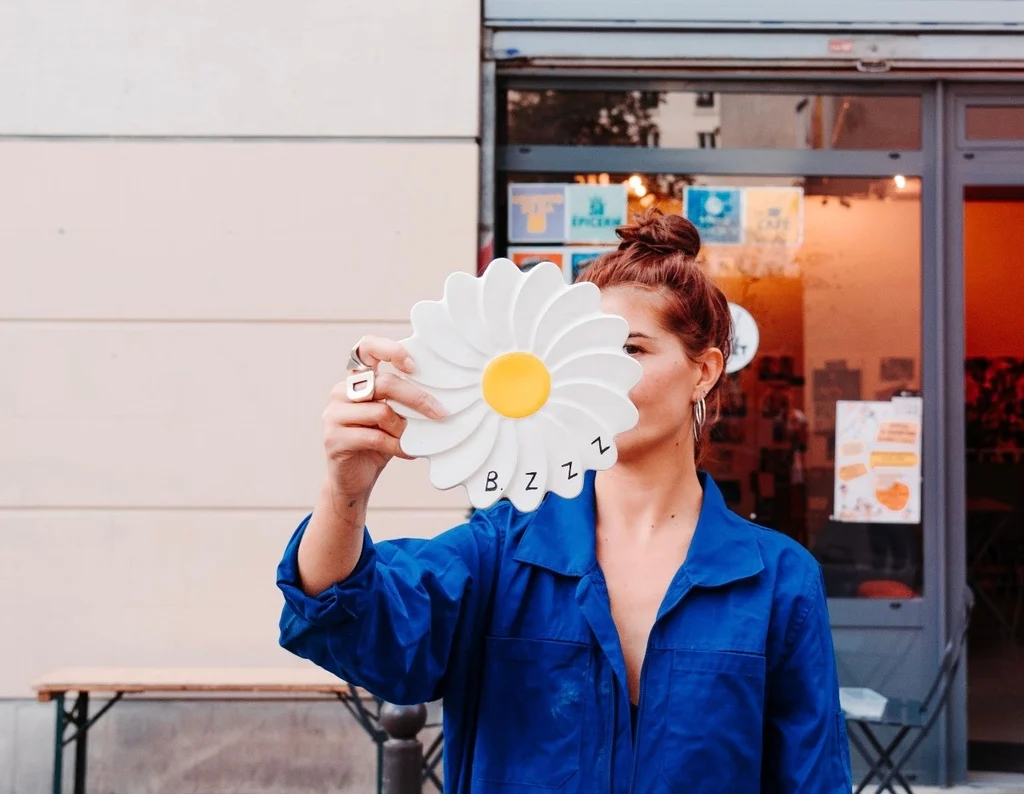
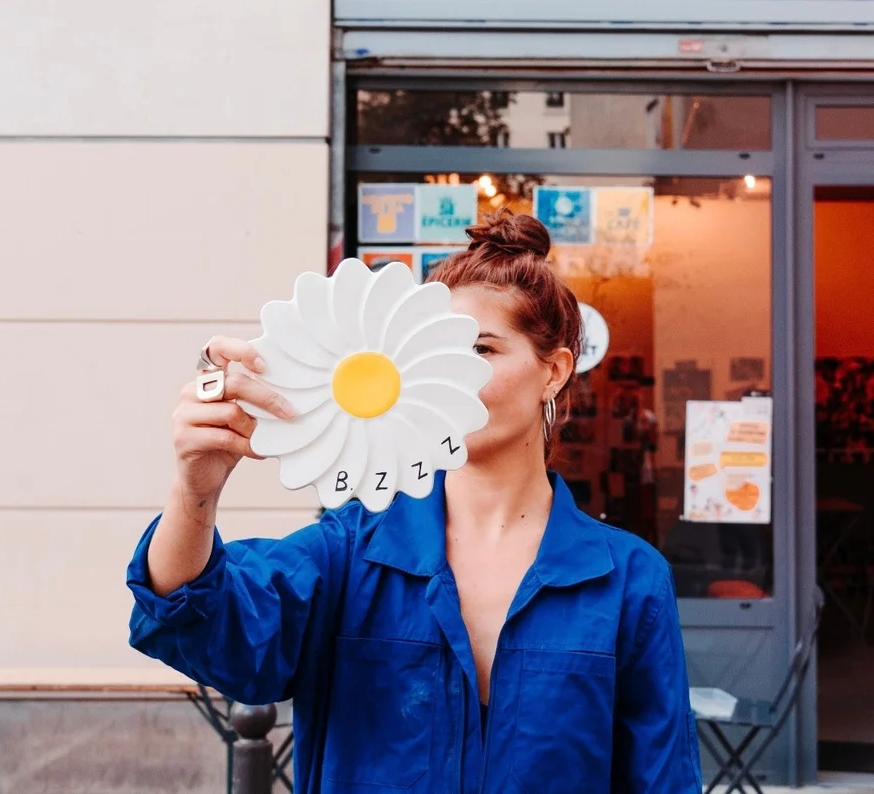
Refine gallery side gradients and crop artist portrait

diff --git a/src/styles/gallery.css b/src/styles/gallery.css
@@ -28,29 +28,30 @@
   position: relative;
   isolation: isolate;
   overflow: hidden;
-  background: var(--paper);
+  background: transparent;
   grid-template-rows: minmax(0, 1fr);
   grid-template-columns: minmax(0, 1fr);
 }
-/* La même photo forme un voile décoratif ; l’original reste net et entier. */
+/* Fondu latéral uniquement : hauteur uniforme, photo intacte. */
 .gallery-slide::before {
   content: '';
   position: absolute;
   inset: 0;
   z-index: -1;
-  background-image: var(--gallery-image);
-  background-size: cover;
-  background-position: center;
-  filter: blur(32px);
-  opacity: 0.16;
-  /* Le halo atteint la transparence avant les bords : aucune découpe carrée. */
-  -webkit-mask-image: radial-gradient(
-    ellipse closest-side,
-    #000 20%,
+  pointer-events: none;
+  background: linear-gradient(
+    to right,
+    transparent 0%,
+    rgb(55 53 49 / 0.5%) 3%,
+    rgb(55 53 49 / 2%) 7%,
+    rgb(55 53 49 / 3.5%) 12%,
+    rgb(55 53 49 / 4%) 18%,
+    rgb(55 53 49 / 4%) 82%,
+    rgb(55 53 49 / 3.5%) 88%,
+    rgb(55 53 49 / 2%) 93%,
+    rgb(55 53 49 / 0.5%) 97%,
     transparent 100%
   );
-  mask-image: radial-gradient(ellipse closest-side, #000 20%, transparent 100%);
-  pointer-events: none;
 }
 .gallery-track::-webkit-scrollbar {
   display: none;

diff --git a/src/content/gallery.ts b/src/content/gallery.ts
@@ -10,7 +10,7 @@ export const gallery = {
   portrait: [
     {
       file: 'portrait/01.webp',
-      width: 1024,
+      width: 874,
       height: 794,
       alt: 'Portrait de B.ZZZZ tenant une fleur devant son visage.',
     },
